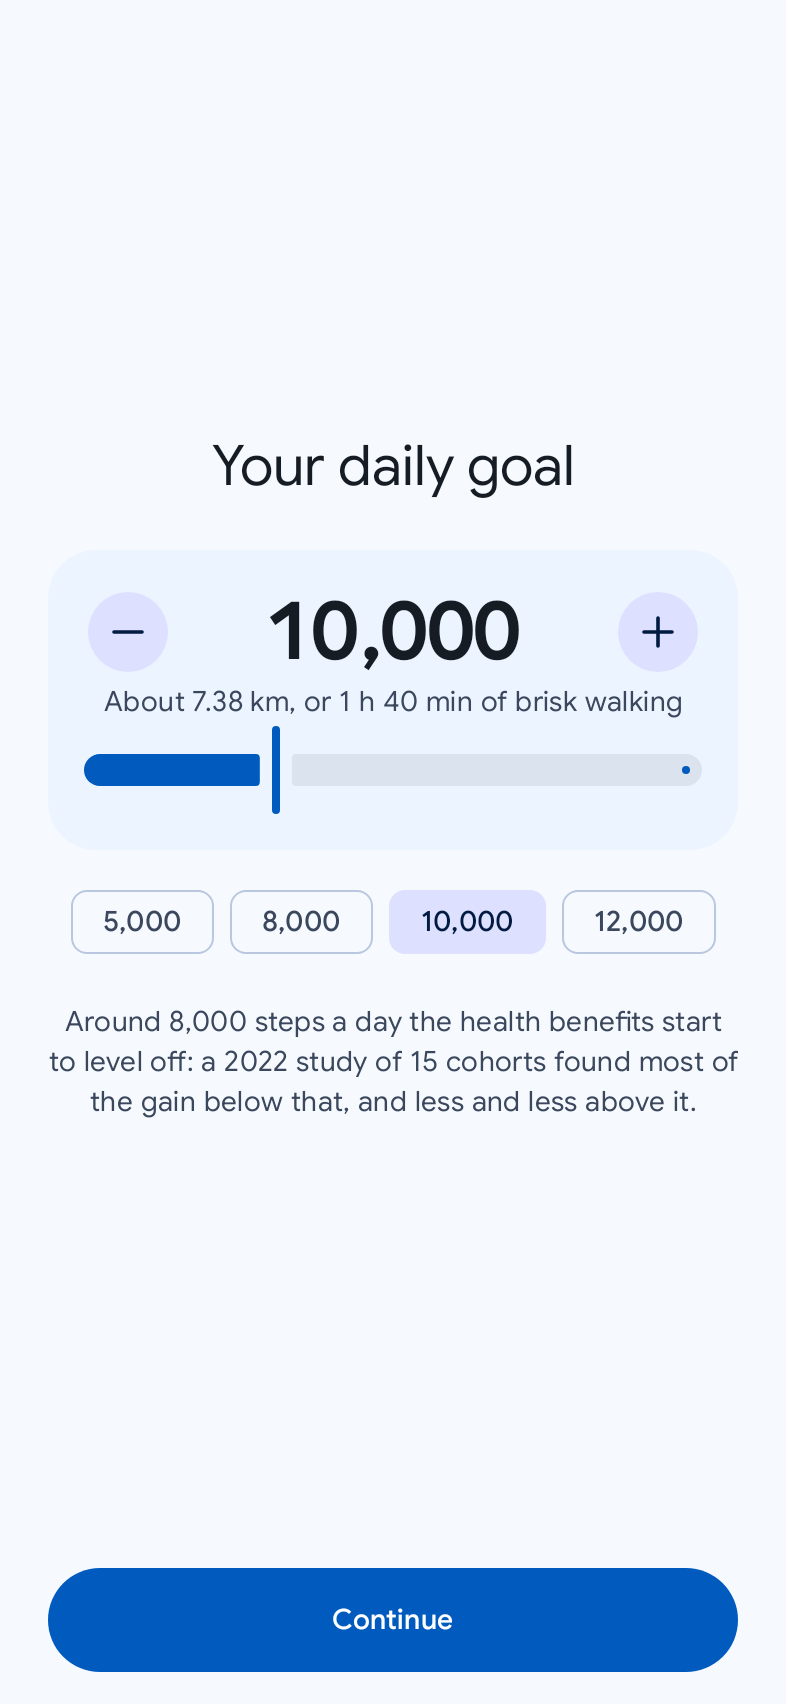
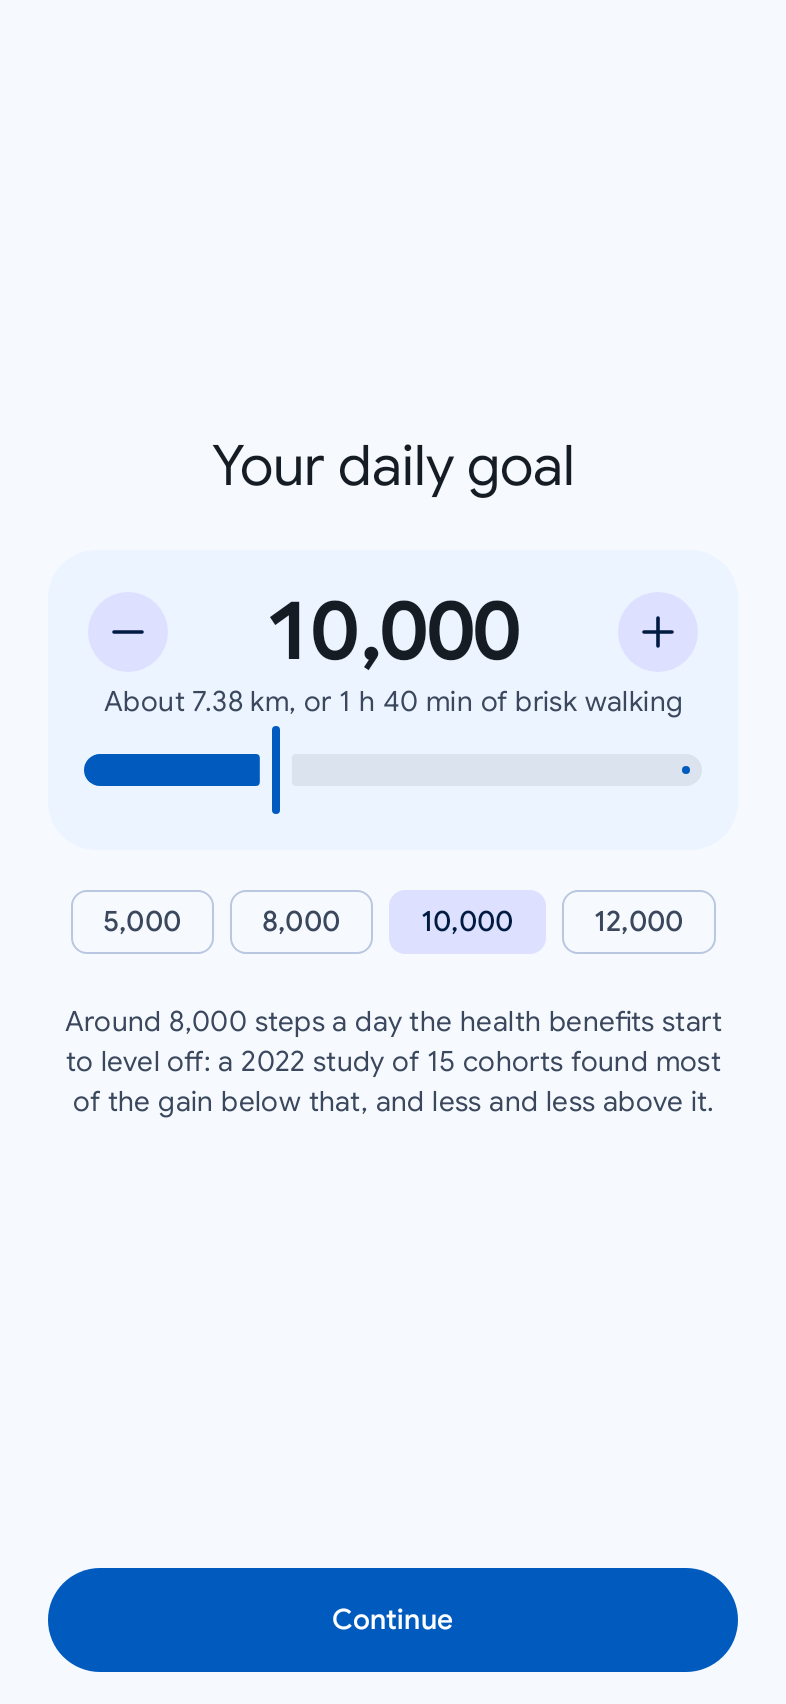
The first run's lines balanced: no word alone on a centred line's end
balanced() in the design system (LineBreak.Heading), taken by every centred text of the first
run and of the no-sensor screen, as in the four apps. onboarding-goal.png regenerated.
PLANNING §15, 12 Nov 2026.

Claude-Session: https://claude.ai/code/session_016e4mBJ1NQgEKgaUE8aKLf3

Changed region(s): [[0.0916, 0.591, 0.916, 0.6532]]

diff --git a/feature/onboarding/src/main/kotlin/com/callbackdev/passo/feature/onboarding/OnboardingScreen.kt b/feature/onboarding/src/main/kotlin/com/callbackdev/passo/feature/onboarding/OnboardingScreen.kt
@@ -66,6 +66,7 @@ import com.callbackdev.passo.core.designsystem.format.text
 import com.callbackdev.passo.core.designsystem.icons.PassoIcons
 import com.callbackdev.passo.core.designsystem.theme.GroupShape
 import com.callbackdev.passo.core.designsystem.theme.PassoTheme
+import com.callbackdev.passo.core.designsystem.theme.balanced
 import com.callbackdev.passo.core.designsystem.theme.padding
 import com.callbackdev.passo.core.designsystem.theme.pageGutter
 import com.callbackdev.passo.core.designsystem.theme.reducedMotion
@@ -274,7 +275,7 @@ private fun Modifier.stepHeading(where: String): Modifier = semantics {
 private fun PageTitle(text: String, where: String) {
     Text(
         text = text,
-        style = MaterialTheme.typography.headlineMedium,
+        style = MaterialTheme.typography.headlineMedium.balanced(),
         textAlign = TextAlign.Center,
         modifier = Modifier.stepHeading(where),
     )
@@ -285,7 +286,7 @@ private fun PageBody(text: String) {
     Spacer(Modifier.height(12.dp))
     Text(
         text = text,
-        style = MaterialTheme.typography.bodyLarge,
+        style = MaterialTheme.typography.bodyLarge.balanced(),
         color = MaterialTheme.colorScheme.onSurfaceVariant,
         textAlign = TextAlign.Center,
     )
@@ -296,14 +297,14 @@ private fun PageBody(text: String) {
 private fun WelcomePage(where: String) {
     Text(
         text = stringResource(R.string.onboarding_app_name),
-        style = MaterialTheme.typography.displaySmall,
+        style = MaterialTheme.typography.displaySmall.balanced(),
         textAlign = TextAlign.Center,
         modifier = Modifier.stepHeading(where),
     )
     Spacer(Modifier.height(8.dp))
     Text(
         text = stringResource(R.string.onboarding_welcome_tagline),
-        style = MaterialTheme.typography.titleMedium,
+        style = MaterialTheme.typography.titleMedium.balanced(),
         color = MaterialTheme.colorScheme.onSurfaceVariant,
         textAlign = TextAlign.Center,
     )
@@ -322,10 +323,14 @@ private fun Promise(title: Int, body: Int) {
         horizontalAlignment = Alignment.CenterHorizontally,
         modifier = Modifier.fillMaxWidth(),
     ) {
-        Text(stringResource(title), style = MaterialTheme.typography.titleMedium, textAlign = TextAlign.Center)
+        Text(
+            stringResource(title),
+            style = MaterialTheme.typography.titleMedium.balanced(),
+            textAlign = TextAlign.Center,
+        )
         Text(
             stringResource(body),
-            style = MaterialTheme.typography.bodyMedium,
+            style = MaterialTheme.typography.bodyMedium.balanced(),
             color = MaterialTheme.colorScheme.onSurfaceVariant,
             textAlign = TextAlign.Center,
         )
@@ -359,7 +364,7 @@ private fun ProfilePage(state: OnboardingState, actions: OnboardingActions, wher
     Spacer(Modifier.height(16.dp))
     Text(
         stringResource(R.string.onboarding_sex),
-        style = MaterialTheme.typography.titleSmall,
+        style = MaterialTheme.typography.titleSmall.balanced(),
         textAlign = TextAlign.Center,
     )
     FlowRow(
@@ -462,7 +467,7 @@ private fun GoalPage(state: OnboardingState, actions: OnboardingActions, where: 
     Spacer(Modifier.height(16.dp))
     Text(
         text = stringResource(R.string.onboarding_goal_note),
-        style = MaterialTheme.typography.bodyMedium,
+        style = MaterialTheme.typography.bodyMedium.balanced(),
         color = MaterialTheme.colorScheme.onSurfaceVariant,
         textAlign = TextAlign.Center,
     )
@@ -509,7 +514,7 @@ private fun PermissionsPage(state: OnboardingState, where: String) {
         Spacer(Modifier.height(24.dp))
         Text(
             text = stringResource(R.string.onboarding_permissions_denied),
-            style = MaterialTheme.typography.bodyMedium,
+            style = MaterialTheme.typography.bodyMedium.balanced(),
             color = MaterialTheme.colorScheme.onSurfaceVariant,
             textAlign = TextAlign.Center,
         )

diff --git a/feature/onboarding/src/main/kotlin/com/callbackdev/passo/feature/onboarding/NoSensorScreen.kt b/feature/onboarding/src/main/kotlin/com/callbackdev/passo/feature/onboarding/NoSensorScreen.kt
@@ -16,6 +16,7 @@ import androidx.compose.ui.res.stringResource
 import androidx.compose.ui.text.style.TextAlign
 import androidx.compose.ui.unit.dp
 import com.callbackdev.passo.core.designsystem.icons.PassoIcons
+import com.callbackdev.passo.core.designsystem.theme.balanced
 import com.callbackdev.passo.core.designsystem.theme.padding
 import com.callbackdev.passo.core.designsystem.theme.pageGutter
 
@@ -40,12 +41,12 @@ fun NoSensorScreen(modifier: Modifier = Modifier) {
             )
             Text(
                 text = stringResource(R.string.setup_no_sensor_title),
-                style = MaterialTheme.typography.headlineMedium,
+                style = MaterialTheme.typography.headlineMedium.balanced(),
                 textAlign = TextAlign.Center,
             )
             Text(
                 text = stringResource(R.string.setup_no_sensor_body),
-                style = MaterialTheme.typography.bodyLarge,
+                style = MaterialTheme.typography.bodyLarge.balanced(),
                 color = MaterialTheme.colorScheme.onSurfaceVariant,
                 textAlign = TextAlign.Center,
             )

diff --git a/core/designsystem/src/main/kotlin/com/callbackdev/passo/core/designsystem/theme/Type.kt b/core/designsystem/src/main/kotlin/com/callbackdev/passo/core/designsystem/theme/Type.kt
@@ -9,6 +9,7 @@ import androidx.compose.ui.text.font.Font
 import androidx.compose.ui.text.font.FontFamily
 import androidx.compose.ui.text.font.FontVariation
 import androidx.compose.ui.text.font.FontWeight
+import androidx.compose.ui.text.style.LineBreak
 import androidx.compose.ui.unit.em
 import androidx.compose.ui.unit.sp
 import com.callbackdev.passo.core.designsystem.R
@@ -136,3 +137,10 @@ val LocalPassoType = staticCompositionLocalOf { passoTypeFor(GoogleSansFamily) }
 
 /** Any style, with tabular figures. */
 fun TextStyle.tabular(): TextStyle = copy(fontFeatureSettings = TABULAR)
+
+/**
+ * Any style, its lines balanced: a few lines of about one width, never a word alone on the last.
+ * For a short text that stands on its own, centred (a first run's title, sentence and promises);
+ * a long one reads better by the paragraph.
+ */
+fun TextStyle.balanced(): TextStyle = copy(lineBreak = LineBreak.Heading)

diff --git a/PLANNING.md b/PLANNING.md
@@ -1094,6 +1094,18 @@ This log starts after 1.1.0's preparation (2 Nov 2026); its entries are written 
   screenshots regenerated (Insights, Your year on foot). Checked: every module's tests, lint,
   spotless, the forbidden permissions. Not done on a device: the box is in «Open».
 
+- **12 Nov 2026.** **The first run's lines balanced, in the four apps** (owner, after the review
+  of Tempo's, Tetto's and Saldo's first runs against this one: "if a word alone at the end of a
+  line should be fixed in Passo too, we do it in all four repos"). The first run's texts are
+  centred and short, where a word alone on the last line («…in the / background.») reads as a
+  slip; the budget app already broke them balanced. `:core:designsystem` gains `balanced()`
+  (`LineBreak.Heading`: lines of about one width, never a word alone on the last), and every
+  centred text of the first run and of the no-sensor screen takes it: the titles, the sentence,
+  the promises, the bodies, the goal's note, the permission's refusal. Only the first run: the
+  rest of the app keeps its breaks until a review of its own looks at it screen by screen.
+  `onboarding-goal.png` regenerated (the welcome's breaks did not change). Checked: the
+  onboarding's tests and their screenshots, spotless.
+
 ### Open
 
 - [ ] **On a device (owner): Today's premium review** (§15, «Today reviewed for a premium first
